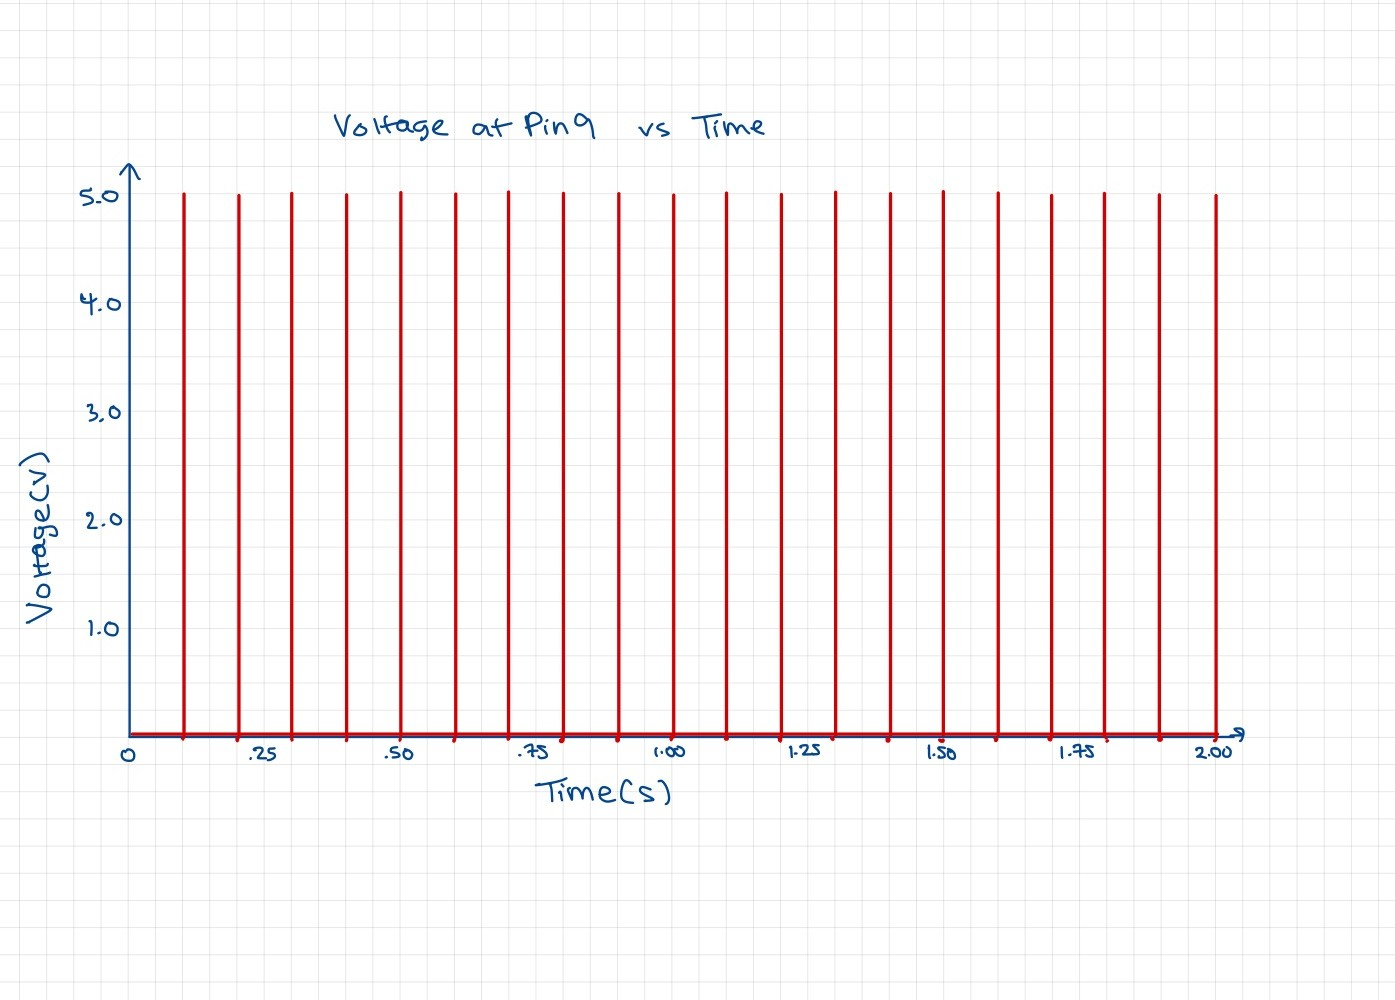
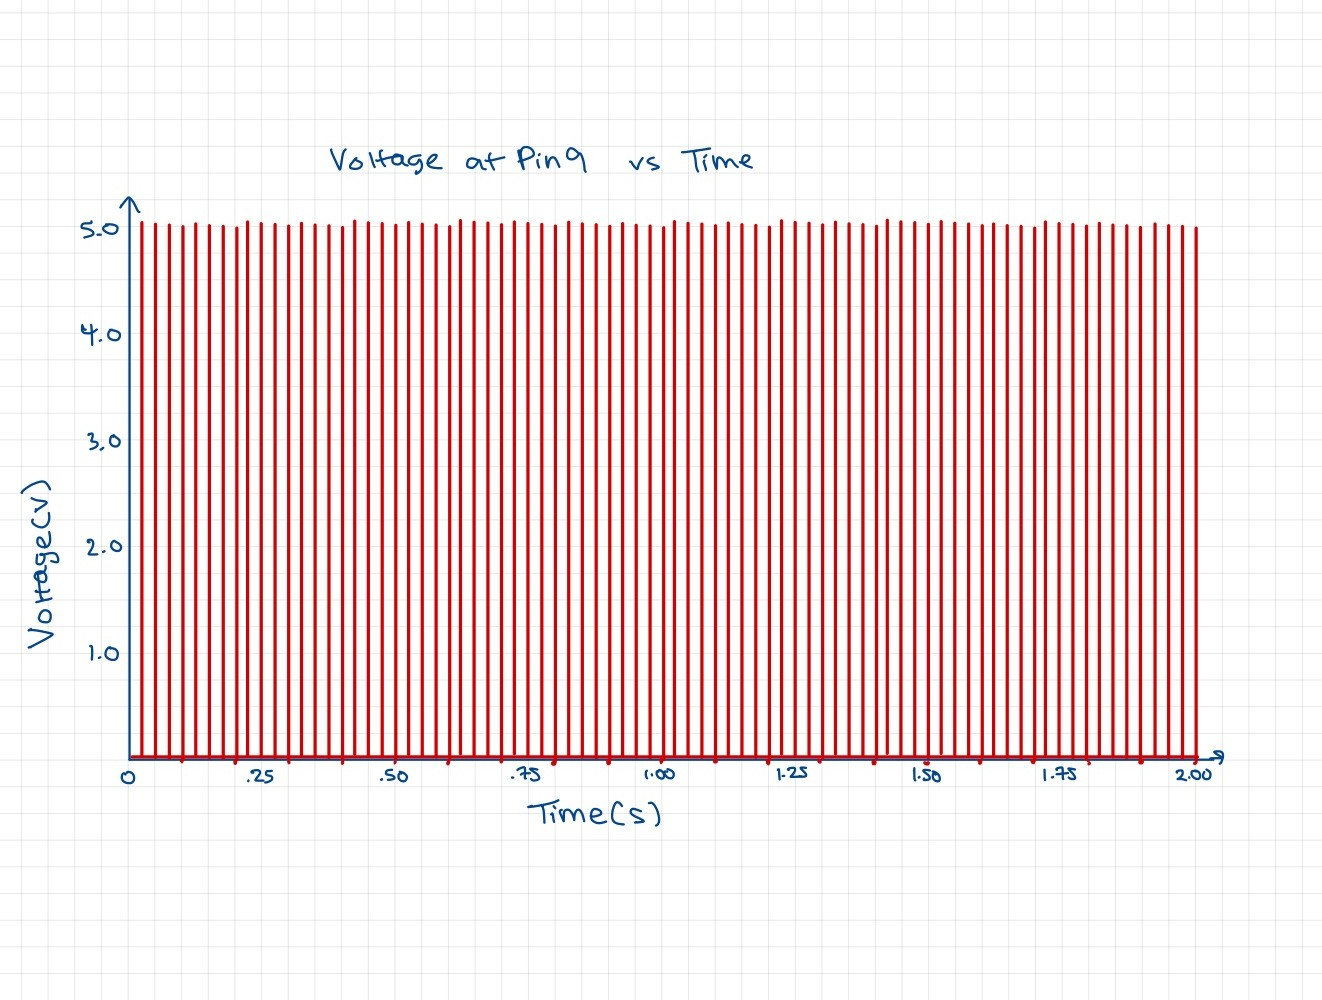
Updated a4 by updating q1 chart

Changed region(s): [[0.0, 0.093, 0.9304, 0.837]]

diff --git a/hcde439/a4.html b/hcde439/a4.html
@@ -91,8 +91,10 @@
         and the y-axis the voltage at pin 9 with respect to ground.</h3>
       <img src="librariesq1.jpg" /> 
       <p>
-        The pulse width of a servo motor is around 1-1.5 ms which is why the peaks appear so narrow. 
-        There is also a 100 ms delay between angle updates, which is the reason for the wider segments at 0 V.
+        The pulse width of a servo motor is around 1-1.5 ms which is why the peaks appear so narrow. During those ~1 ms 
+        periods, the voltage goes up to 5V.
+        There is a peak every 20 ms because the servo signal has a 20 ms period, for a total of 100 peaks 
+        in a 2 second time period.
       </p>
 
       <h3>2. Your input device is slightly broken, leading it to give us an erroneous reading 1% of the time. 
